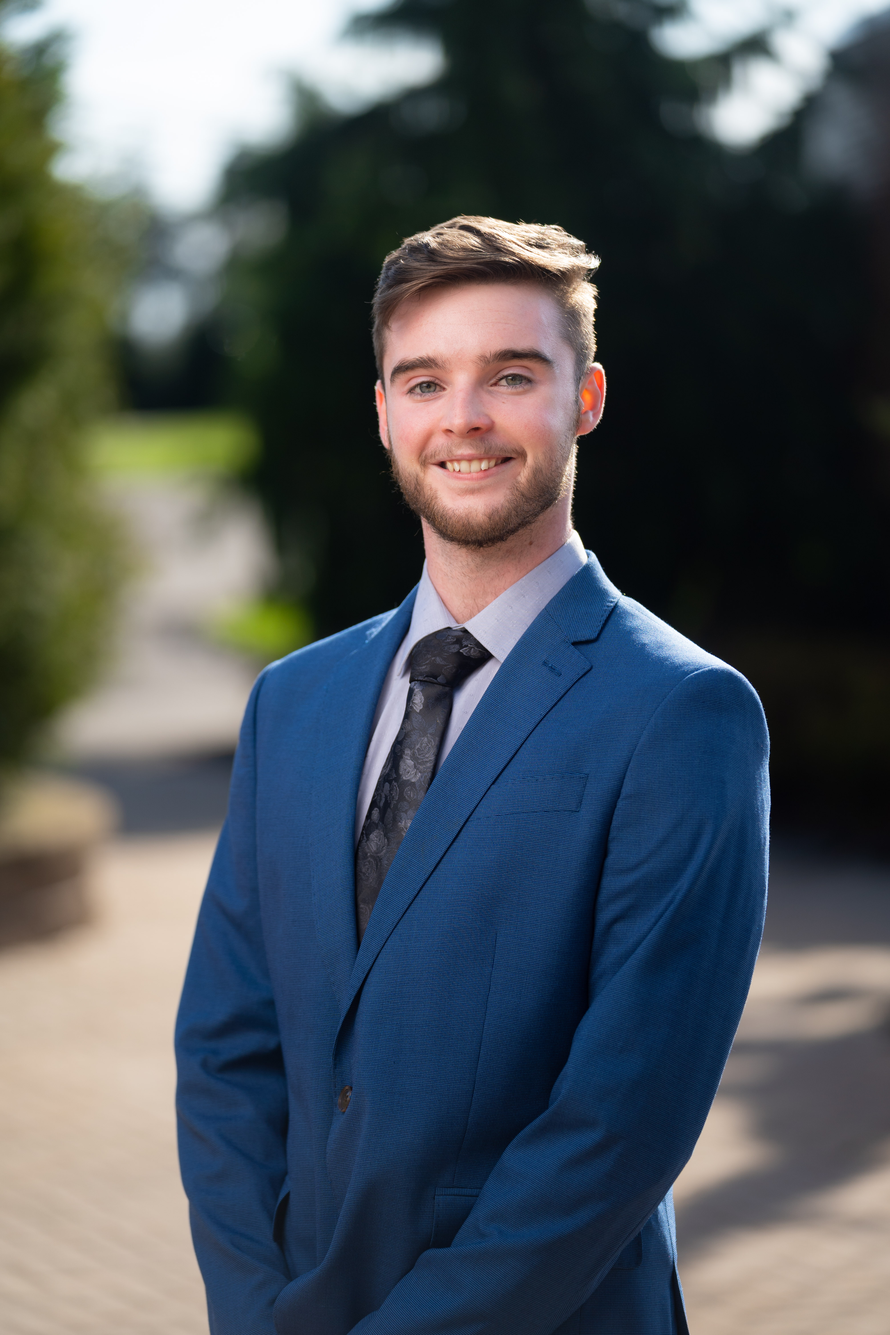
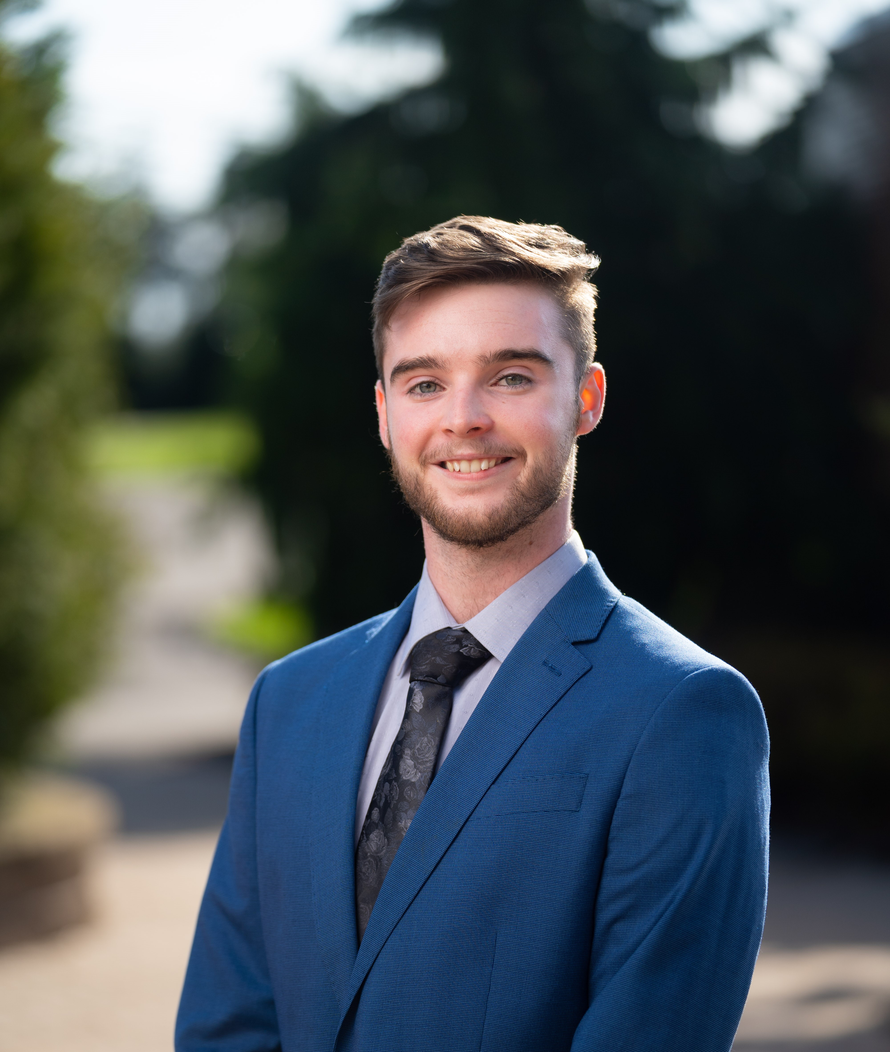
Updated template, image, and resume

diff --git a/docs/index.html b/docs/index.html
@@ -137,33 +137,19 @@ ul.task-list li input[type="checkbox"] {
 </nav>
     </div>
 <!-- main -->
-<div class="quarto-about-trestles content">
-  <div class="about-entity">
+<div class="quarto-about-marquee content">
+  <div class="about-image-container">
     <img src="assets/Liam_Jennings_Headshot.jpg" class="about-image
-  rounded " style="width: 20em;">
-<header id="title-block-header" class="quarto-title-block default">
+  round " style="height: 100%; width: 100%;">
+  </div>
+  <div class="about-contents">
+    <header id="title-block-header" class="quarto-title-block default">
 <div class="quarto-title">
 <h1 class="title">Liam Jennings</h1>
 </div>
 <div class="quarto-title-meta">
   </div>
-</header>
-    <div class="about-links">
-  <a href="mailto:liam.j.jennings12@gmail.com" class="about-link" rel="" target="">
-    <i class="bi bi-envelope"></i>
-     <span class="about-link-text">Email</span>
-  </a>
-  <a href="https://github.com/ljennings12" class="about-link" rel="" target="_blank">
-    <i class="bi bi-github"></i>
-     <span class="about-link-text">GitHub</span>
-  </a>
-  <a href="https://www.linkedin.com/in/liamjennings/" class="about-link" rel="" target="_blank">
-    <i class="bi bi-linkedin"></i>
-     <span class="about-link-text">LinkedIn</span>
-  </a>
-</div>
-  </div>
-  <div class="about-contents"><main class="content" id="quarto-document-content">
+</header> <main class="content" id="quarto-document-content">
 
 <p>I am a Robert Morris University student majoring in Statistics and Data Science with a minor in Sport Management and also pursuing a Master’s in Data Science. I decided to combine my favorite subject (statistics) and hobby (sports) into a passion.</p>
 <p>I have always been interested in statistics, whether I was scanning the back of football cards, combing through Statcast leaders, or using advanced analytics to win in fantasy football.</p>
@@ -199,7 +185,23 @@ ul.task-list li input[type="checkbox"] {
 
 
 </section>
-</main></div>
+</main> 
+    <div class="about-footer"><div class="about-links">
+  <a href="mailto:liam.j.jennings12@gmail.com" class="about-link" rel="" target="">
+    <i class="bi bi-envelope"></i>
+     <span class="about-link-text">Email</span>
+  </a>
+  <a href="https://github.com/ljennings12" class="about-link" rel="" target="_blank">
+    <i class="bi bi-github"></i>
+     <span class="about-link-text">GitHub</span>
+  </a>
+  <a href="https://www.linkedin.com/in/liamjennings/" class="about-link" rel="" target="_blank">
+    <i class="bi bi-linkedin"></i>
+     <span class="about-link-text">LinkedIn</span>
+  </a>
+</div>
+</div>
+  </div>
 </div>
  <!-- /main -->
 <script id="quarto-html-after-body" type="application/javascript">
